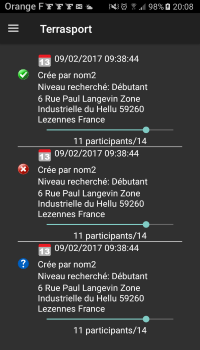
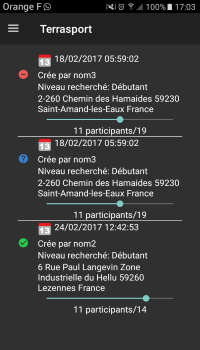
mise à jour des icones état de la demande

diff --git a/app/src/main/java/com/terrasport/adapter/DemandeParticipationRecyclerViewAdapter.java b/app/src/main/java/com/terrasport/adapter/DemandeParticipationRecyclerViewAdapter.java
@@ -83,13 +83,16 @@ public class DemandeParticipationRecyclerViewAdapter extends RecyclerView.Adapte
 
         switch(mValues.get(position).getEtat().getId()) {
             case 1:
-                holder.imageEtatDemande.setImageResource(R.drawable.icone_attente);
+                // validee
+                holder.imageEtatDemande.setImageResource(R.drawable.ic_validee);
                 break;
             case 2:
-                holder.imageEtatDemande.setImageResource(R.drawable.icone_validee);
+                // attente
+                holder.imageEtatDemande.setImageResource(R.drawable.ic_attente);
                 break;
             case 3:
-                holder.imageEtatDemande.setImageResource(R.drawable.icone_refusee);
+                // refusee
+                holder.imageEtatDemande.setImageResource(R.drawable.ic_refusee);
                 break;
         }
 
